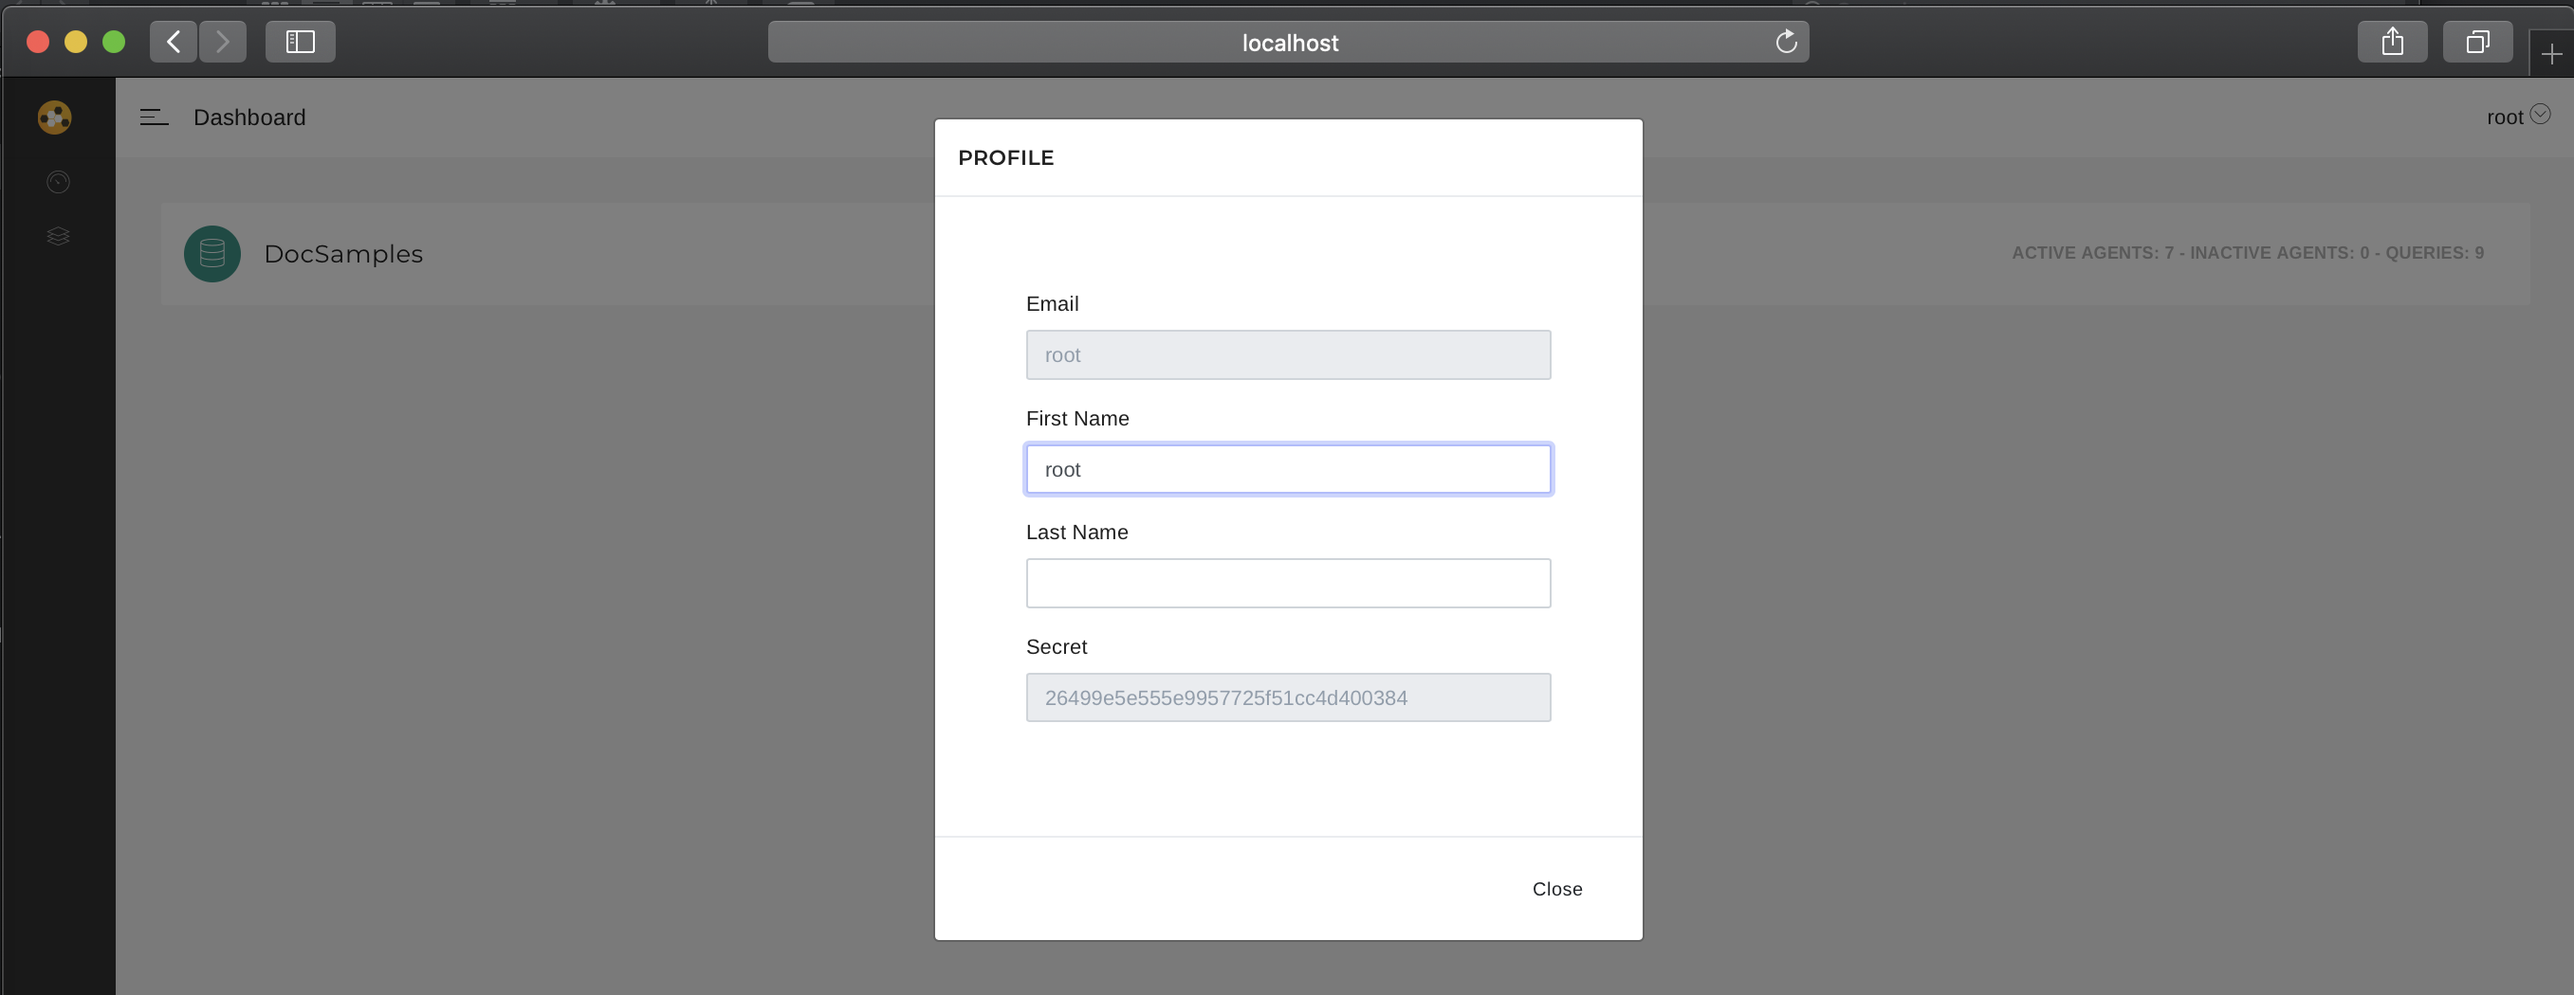
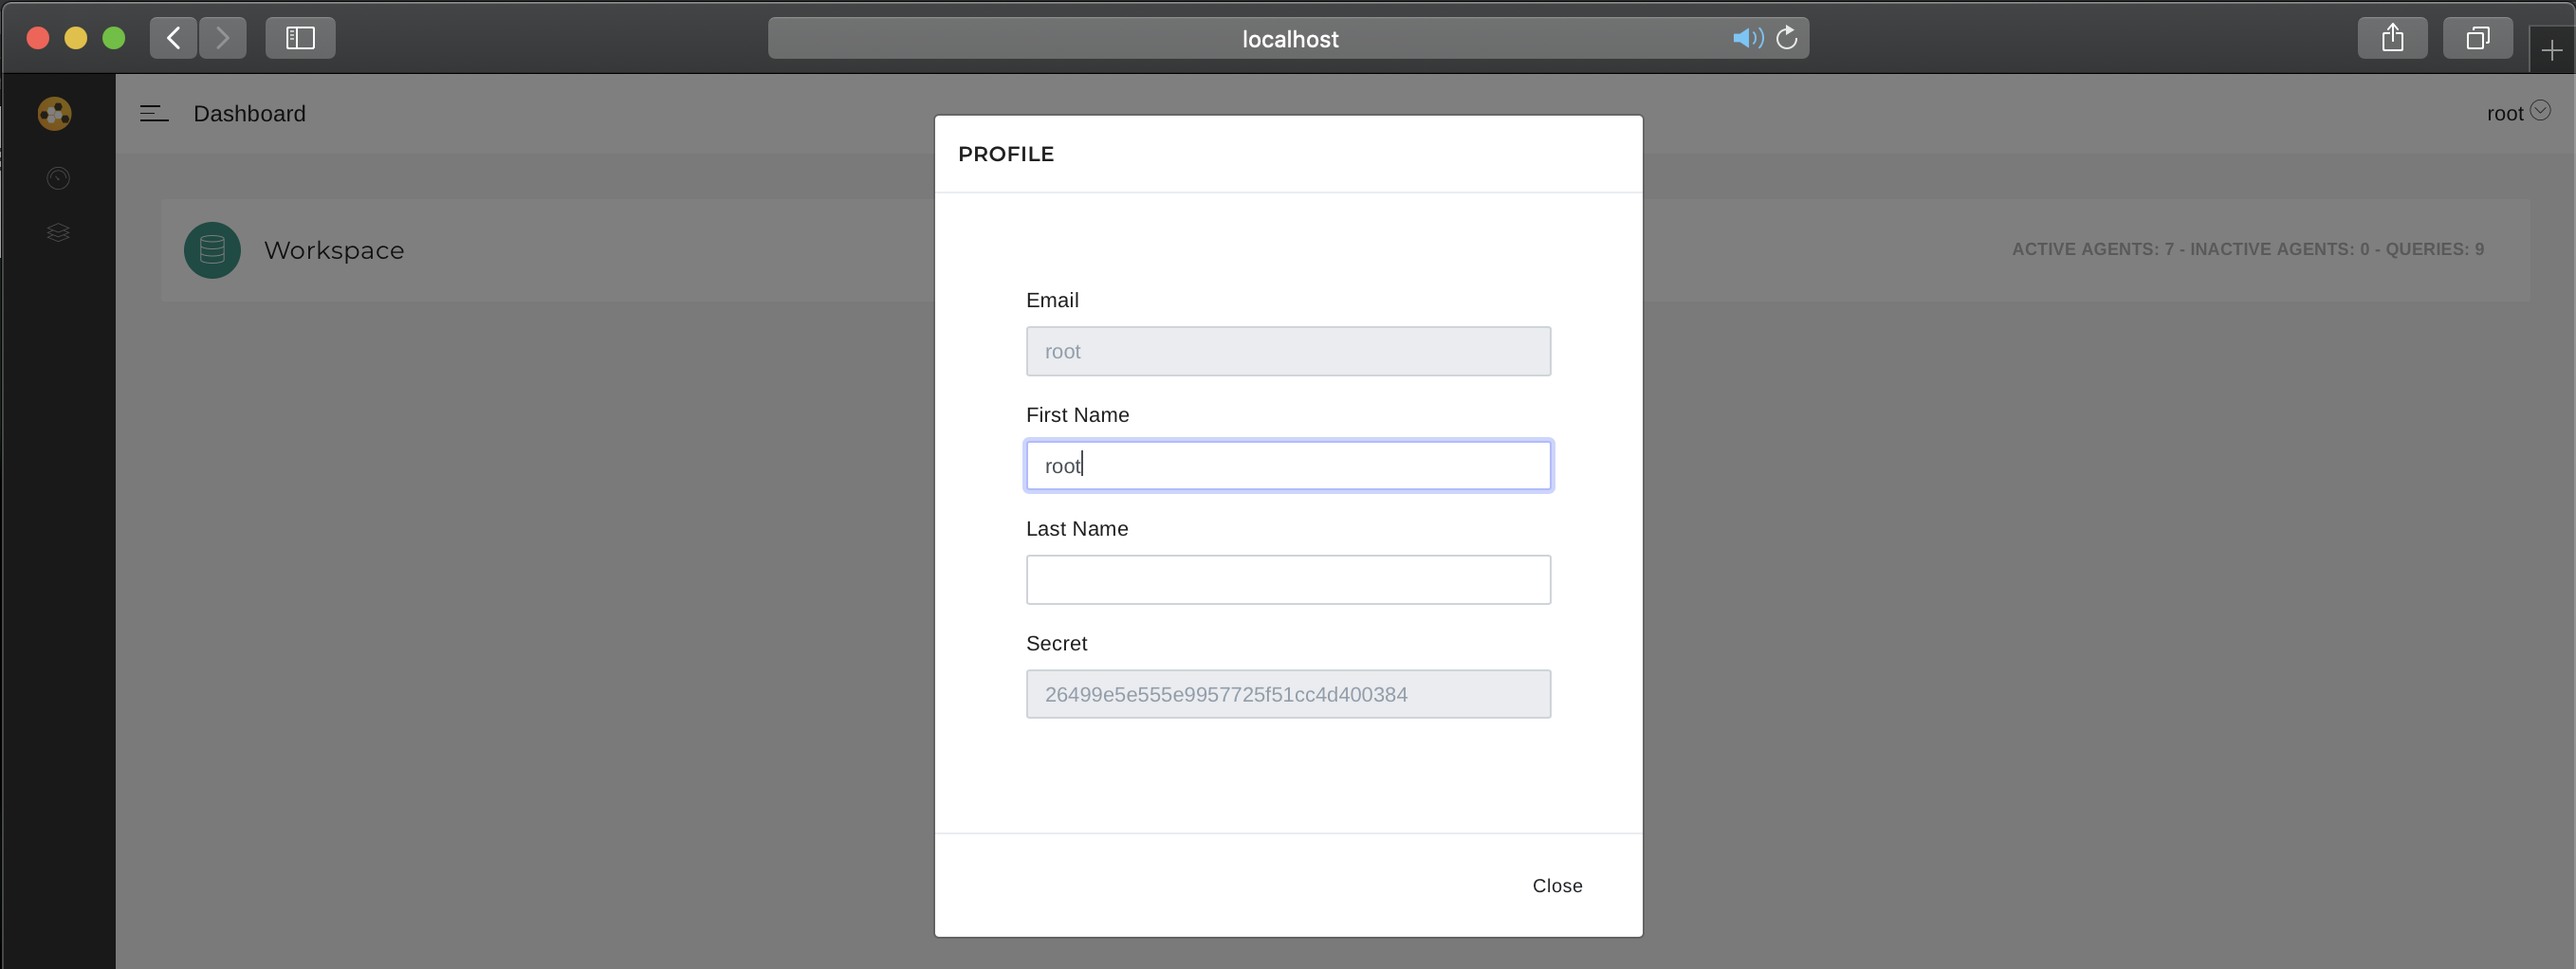
doc update

diff --git a/README.md b/README.md
@@ -31,8 +31,14 @@ For more information visit https://www.coflows.com.
 
 This edition will be tightly coupled with the **CoFlows Cloud** making it much easier for developers to deploy and host their applications. More information on this coming soon.
 
+---
+
 ## Polygot
 Let's start with a definition. According to Wikipedia, in computing, a polyglot is a computer program or script written in a valid form of multiple programming languages, which performs the same operations or output independent of the programming language used to compile or interpret it.
+
+The QuantApp Engine enables a polyglot environment where developers can code their functions in a variety of languages while allowing all languages to co-exist in the same process in memory. This mitigates the need for a TCP (SOAP, JSON WebAPI, Py4J) overhead which is usual when functions from different languages interact.
+
+Within a CoFlows workspace, three computing environments interact within the same process including the Core CLR (DotNet Core Language Runtime), JVM (Java Virtual Machine) and the Python interpreter. Javascript is interpreted within the CLR using the Jint package. Note: The CLR is the main execution environment which calls the JVM and and Python interpreter.
 
 There are multiple sources pushing both the pros and cons of polyglot systems and this is not the place to discuss it. We believe that the ability to express algorithms in the correct language and using the best libraries for the right task is essential. **CoFlows** uses the **QuantApp.Engine** and **QuantApp.Kernel** libraries to offer interop between:
 * CoreCLR: C#, F# & VB
@@ -49,38 +55,52 @@ Javascript interpretation is achieved using the great [Jint](https://github.com/
 
 For further details please read [Polyglot](docs/Polyglot/General.md "Polyglot").
 
+---
 
 ## Workspaces
 
 Projects in **CoFlows** are called Workspaces. They contain the logic that defines the Web APIs and scheduled / reactive processes together with the definition of the entire environment including Nuget, Jar and Pip packages that the Workspace depends on. For further information please read [sample repo from GitHub](https://github.com/QuantApp/CoFlows-Workspace).
+
+---
+
+## Security, Authentication and Permissions
+ssl
+
+login
+
+secret
+
+----
 
 ## User Interface
 
 To simplify your interaction with your **CoFlows** project, we have created a user interface. Let's start with a few steps.
 
 1) Clone the CoFlows-Workspace repo from [sample repo from GitHub](https://github.com/QuantApp/CoFlows-Workspace).
+
 2) In the bin folder, execute the server.sh or bat/server.bat scripts. Read more in the README of this repo.
-3) Open a browser and go to http://localhost
+
+3) Open a browser and go to http://localhost and login with username "root" and password "123".
 
 ![login](docs/images/login.png)
 
-4) Login with username "root" and password "123". After a successfully login, you will see a dashboard with a list of all workspaces hosted in the current runtime. In this example it is only 
+alternatively you could create a new user by clicking on "Create an account!"
 
-![dashboard](docs/images/create_user.png)
+![login](docs/images/create_user.png)
 
-4) Login with username "root" and password "123". After a successfully login, you will see a dashboard with a list of all workspaces hosted in the current runtime. In this example it is only 
-
-![dashboard](docs/images/profile.png)
-
-4) Login with username "root" and password "123". After a successfully login, you will see a dashboard with a list of all workspaces hosted in the current runtime. In this example it is only 
+4) Once logged in, you will see all the workspace hosted by this container. In this example, there is only one workspace called "Workspace". 
 
 ![dashboard](docs/images/dashboard.png)
 
-5) Once logged in, click on the Workspace to enter it. This first view will let you see the Agents and Queries available in the workspace.
+5) By click on the top right corner "root" you are able to logout, change password and see the user profile. In the user profile, you are able to change first and last names and most importantly see the User Secret. This Secret is used to authenticate user permissions when connecting through a WebAPI. 
+
+![dashboard](docs/images/profile.png)
+
+6) Closing the profile window and going back to the dashboard you can click on the Workspace to enter it. This first view will let you see the Agents and Queries available in the workspace. This view also has multiple tabs which are discussed below.
 
 ![workspace](docs/images/workspace.png)
 
-6) The Source tab lets you browse the Base code of workspace. The base code can be thought of as libraries used by both Agents and Queries. For more information please see the documentation of the [sample repo from GitHub](https://github.com/QuantApp/CoFlows-Workspace). Please note that this code is read-only. To edit these libraries, you must do so outside of this UI.
+7) The Source tab lets you browse the Base code of workspace. The base code can be thought of as libraries used by both Agents and Queries. For more information please see the documentation of the [sample repo from GitHub](https://github.com/QuantApp/CoFlows-Workspace). Please note that this code is read-only. To edit these libraries, you must do so outside of this UI.
 
 ![workspace](docs/images/workspace_source.png)
 
